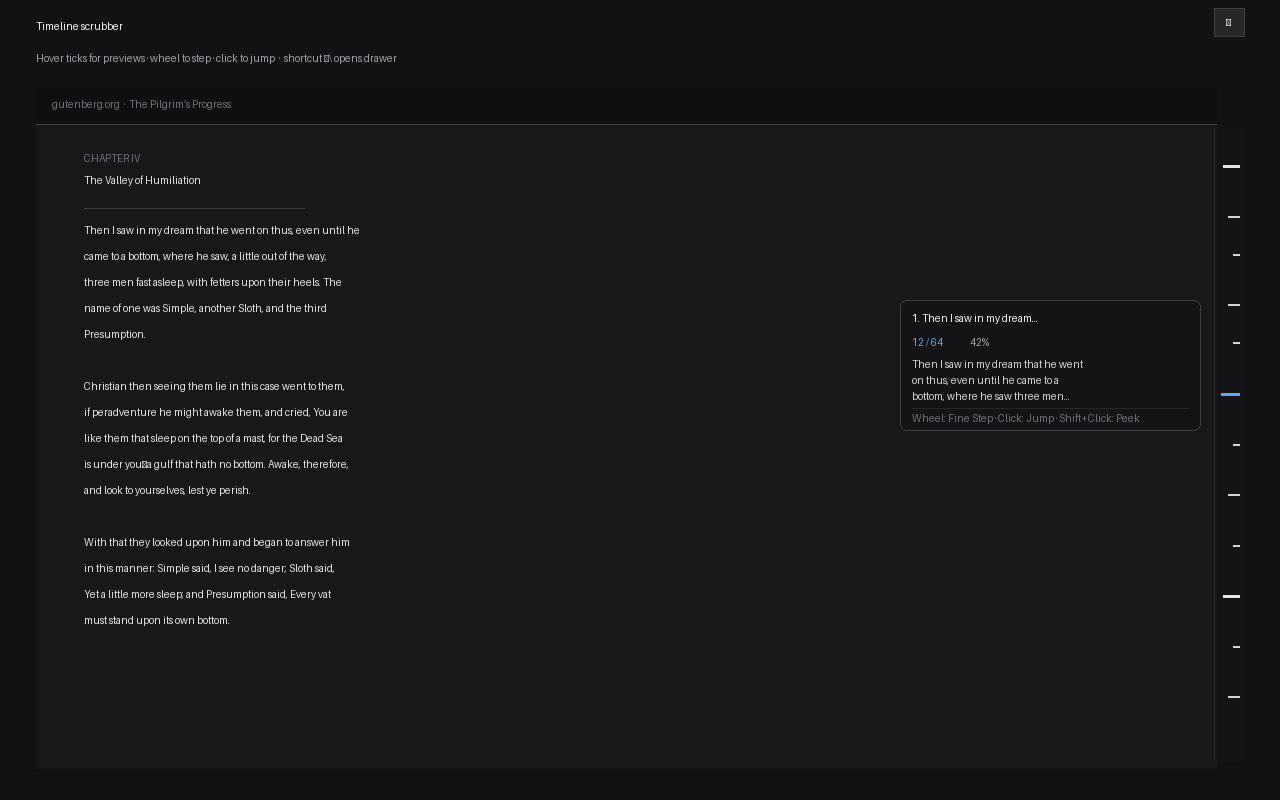
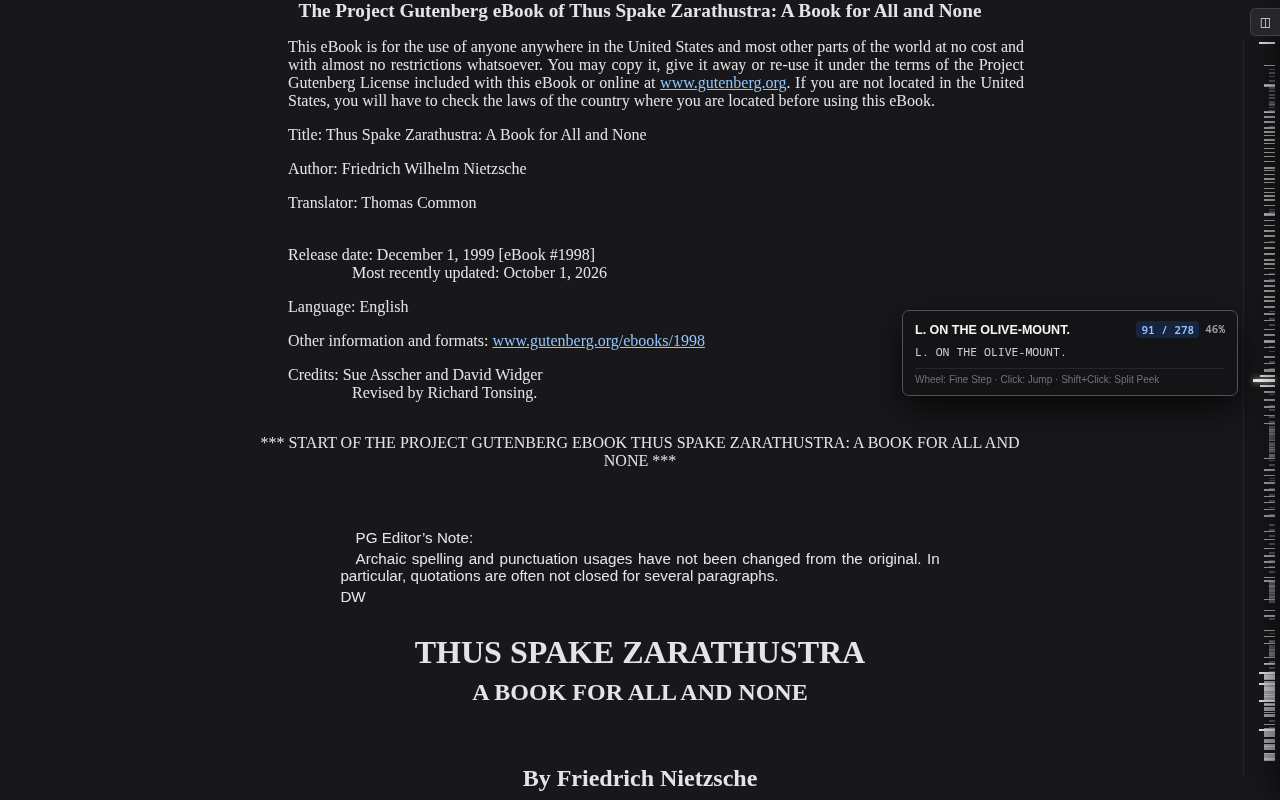
Add real in-browser AMO screenshots from Gutenberg #1998.
Capture production content-script UI on Thus Spake Zarathustra via
scripts/capture-amo-screenshots.mjs (npm run screenshots).

diff --git a/store/amo-listing.md b/store/amo-listing.md
@@ -56,12 +56,14 @@ https://github.com/sandeepsingh61935/project-gutenberg-outline
 
 ## Screenshots (upload order)
 
+Real captures from [Thus Spake Zarathustra](https://www.gutenberg.org/cache/epub/1998/pg1998-images.html) (`npm run screenshots`).
+
 | File | Caption |
 | --- | --- |
-| `01-timeline-scrubber.png` | Right-edge timeline — hover for preview, wheel to step, click to jump |
-| `02-outline-drawer.png` | Outline drawer with search, dark-mode toggle, and chapter tree |
-| `03-reading-dark-mode.png` | Built-in book dark mode (D or ☾) vs default light page |
-| `04-feature-overview.png` | Icon and feature overview |
+| `01-timeline-scrubber.png` | Timeline scrubber on a live Gutenberg book — hover ticks for section previews |
+| `02-outline-drawer.png` | Outline drawer with hierarchical chapters and subsections |
+| `03-reading-dark-mode.png` | Built-in book dark mode while reading |
+| `04-feature-overview.png` | Search/filter the outline (e.g. “zarathustra”) |
 
 ## How to fix the live listing right now
 
